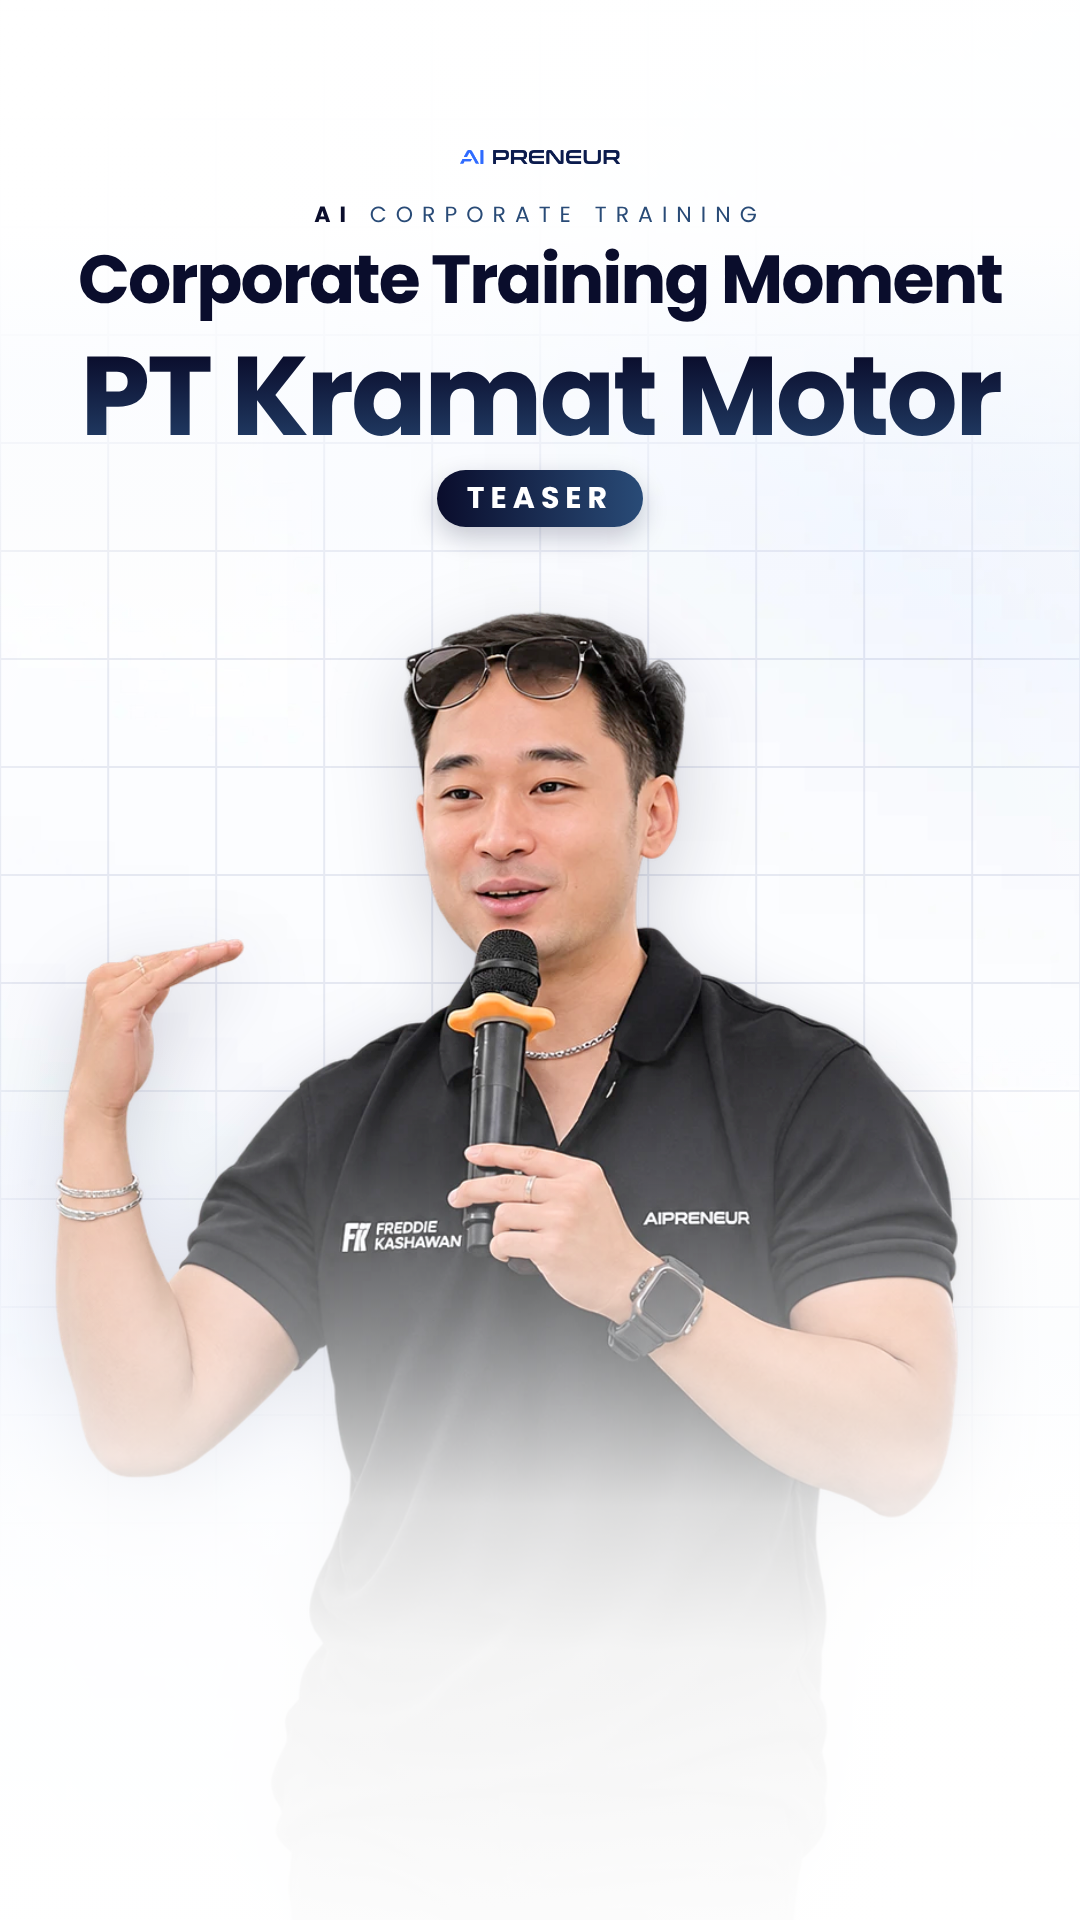
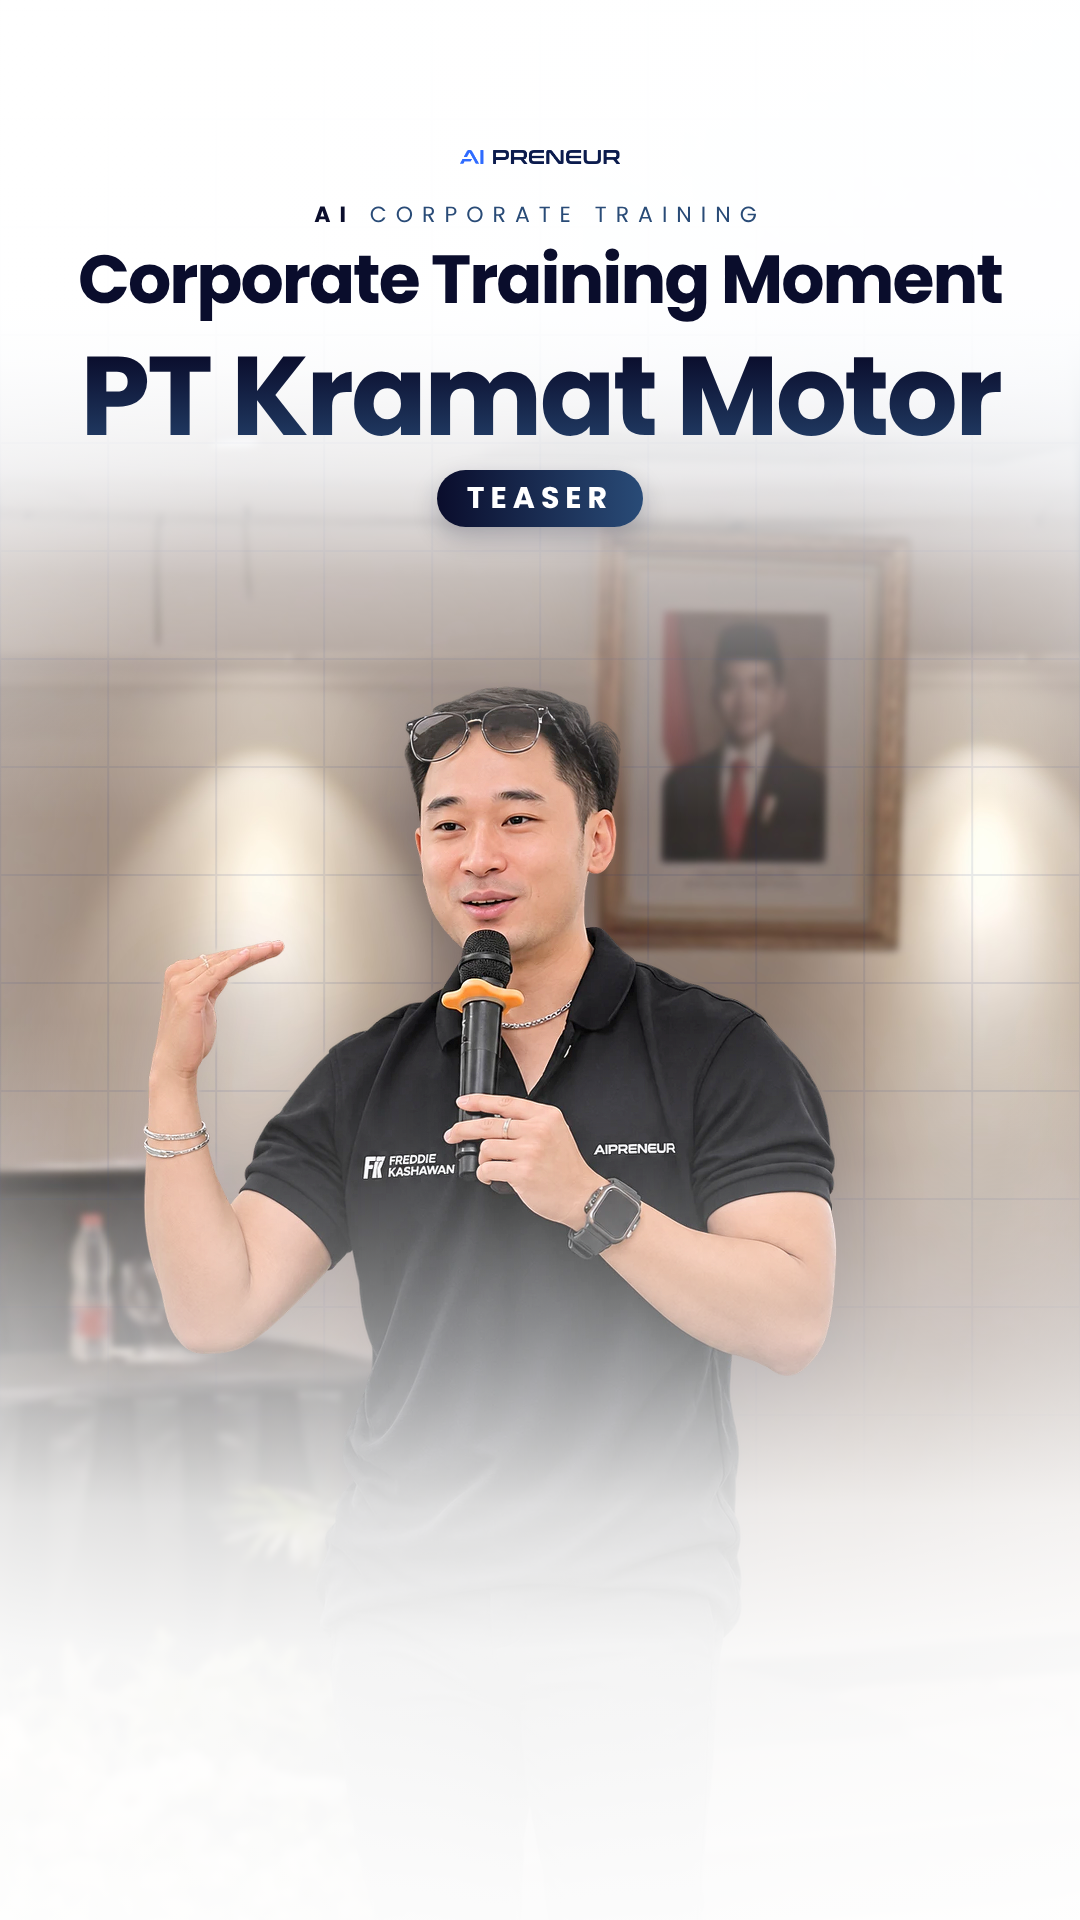
Cover Kramat Motor: room background (person inpainted) + client's cutout aligned in place
Claude-Session: https://claude.ai/code/session_01FYKeHQKRYJvqWR6SYDVSQw

diff --git a/projects/cover_kramat_motor/thumbnail/cover.html b/projects/cover_kramat_motor/thumbnail/cover.html
@@ -15,13 +15,13 @@
   #c { position: relative; width: 1080px; height: 1920px; overflow: hidden; }
   #bg { position: absolute; left: 0; top: 0; width: 1080px; height: 1920px; }
   .layer { position: absolute; left: 0; width: 1080px; }
-  #top { top: 0; height: 640px; background: linear-gradient(180deg, rgba(255,255,255,.98) 0%, rgba(255,255,255,.95) 36%, rgba(250,252,255,.74) 58%, rgba(246,249,255,.28) 80%, rgba(246,249,255,0) 100%); }
+  #top { top: 0; height: 820px; background: linear-gradient(180deg, rgba(255,255,255,.98) 0%, rgba(255,255,255,.95) 36%, rgba(250,252,255,.74) 58%, rgba(246,249,255,.28) 80%, rgba(246,249,255,0) 100%); }
   #bot { bottom: 0; height: 900px; background: linear-gradient(0deg, rgba(255,255,255,.98) 0%, rgba(255,255,255,.95) 30%, rgba(255,255,255,.84) 46%, rgba(250,252,255,.5) 64%, rgba(246,249,255,.16) 84%, rgba(246,249,255,0) 100%); }
   #vig { top: 0; height: 1920px; background: radial-gradient(ellipse 780px 1180px at 50% 54%, rgba(255,255,255,0) 60%, rgba(255,255,255,.5) 100%); }
   #grid { top: 0; height: 1920px; opacity: .09;
     background-image: linear-gradient(90deg, rgba(20,44,120,1) 0 1.6px, transparent 1.6px), linear-gradient(0deg, rgba(20,44,120,1) 0 1.6px, transparent 1.6px);
     background-size: 108px 108px; background-position: -0.8px 12px;
-    -webkit-mask-image: url(../assets/gridmask2.png); mask-image: url(../assets/gridmask2.png); -webkit-mask-size: 1080px 1920px; mask-size: 1080px 1920px; }
+    -webkit-mask-image: url(../assets/gridmask3.png); mask-image: url(../assets/gridmask3.png); -webkit-mask-size: 1080px 1920px; mask-size: 1080px 1920px; }
   .ctr { position: absolute; left: 0; width: 1080px; text-align: center; white-space: nowrap; }
   .t { display: none; }
   body.text .t { display: block; }
@@ -32,7 +32,7 @@
   #h2 { top: 340px; font: 700 112px/1 Poppins; letter-spacing: -3px;
     background: linear-gradient(180deg, #0a0d2c 10%, #294b77 95%); -webkit-background-clip: text; background-clip: text; color: transparent;
     padding-bottom: .26em; }
-  #person { position: absolute; left: -98px; top: 600px; width: 1266px; height: auto; filter: drop-shadow(0 24px 40px rgba(10,13,44,.18)); }
+  #person { position: absolute; left: 0; top: 0; width: 1080px; height: 1920px; filter: drop-shadow(0 24px 40px rgba(10,13,44,.18)); }
   #chip { position: absolute; left: 0; width: 1080px; top: 470px; text-align: center; }
   #chip span { display: inline-block; padding: 13px 30px 14px; border-radius: 40px; background: linear-gradient(90deg, #0a0d2c, #294b77);
     font: 700 30px/1 Poppins; letter-spacing: 6px; color: #fff; box-shadow: 0 10px 26px rgba(10,13,44,.22); }
@@ -40,9 +40,9 @@
 </head>
 <body class="text">
 <div id="c">
-  <img id="bg" src="../assets/plate.jpg" alt="" />
+  <img id="bg" src="../assets/room.jpg" alt="" />
   <div class="layer" id="grid"></div>
-  <img id="person" src="../assets/person.png" alt="" />
+  <img id="person" src="../assets/person_c.png" alt="" />
   <div class="layer" id="vig"></div>
   <div class="layer" id="top"></div>
   <div class="layer" id="bot"></div>

diff --git a/projects/cover_kramat_motor/tools/build_bg2.py b/projects/cover_kramat_motor/tools/build_bg2.py
@@ -1,0 +1,51 @@
+"""Room background (person removed with LaMa) + the client's clean cutout placed exactly where he stood.
+Usage: python3 -I tools/build_bg2.py <lama_fp32.onnx> <u2net_human_seg.onnx>"""
+import sys, cv2, numpy as np, onnxruntime as ort
+from PIL import Image
+LAMA, U2 = sys.argv[1:3]
+ph = cv2.imread("source/photo.jpg"); H0, W0 = ph.shape[:2]
+cu = np.array(Image.open("source/cutout.webp").convert("RGBA")).astype(np.float32) / 255
+M = np.load("source/cut2photo.npy")                                   # cutout -> photo (SIFT)
+# person mask in the photo: u2net matte + the aligned cutout, generously dilated
+s = ort.InferenceSession(U2, providers=["CPUExecutionProvider"])
+x = cv2.resize(cv2.cvtColor(ph, cv2.COLOR_BGR2RGB), (320, 320), interpolation=cv2.INTER_AREA).astype(np.float32) / 255
+x = (x / x.max() - np.array([0.485, 0.456, 0.406])) / np.array([0.229, 0.224, 0.225])
+m = s.run(None, {s.get_inputs()[0].name: x.transpose(2, 0, 1)[None].astype(np.float32)})[0][0, 0]
+m = cv2.resize((m - m.min()) / (m.max() - m.min() + 1e-9), (W0, H0))
+n, l, st, _ = cv2.connectedComponentsWithStats((m > 0.3).astype(np.uint8)); m = (l == 1 + int(np.argmax(st[1:, 4]))).astype(np.uint8)
+ca = cv2.warpAffine(cu[..., 3], M.astype(np.float32), (W0, H0))
+mask = cv2.dilate(((m > 0) | (ca > 0.1)).astype(np.uint8) * 255, np.ones((31, 31), np.uint8))
+# LaMa on a square crop around the person, at 512
+ys, xs = np.nonzero(mask); cx, cy = (xs.min() + xs.max()) // 2, (ys.min() + ys.max()) // 2
+S = int(max(xs.max() - xs.min(), ys.max() - ys.min()) * 1.15); x0 = int(np.clip(cx - S // 2, 0, W0 - S)); y0 = int(np.clip(cy - S // 2, 0, H0 - S)) if S <= H0 else 0
+S = min(S, H0, W0)
+crop = ph[y0:y0 + S, x0:x0 + S]; mc = mask[y0:y0 + S, x0:x0 + S]
+c5 = cv2.resize(crop, (512, 512), interpolation=cv2.INTER_AREA); m5 = (cv2.resize(mc, (512, 512)) > 127).astype(np.float32)
+sess = ort.InferenceSession(LAMA, providers=["CPUExecutionProvider"])
+rgb = cv2.cvtColor(c5, cv2.COLOR_BGR2RGB).astype(np.float32) / 255 * (1 - m5[..., None])
+y = sess.run(None, {"image": rgb.transpose(2, 0, 1)[None], "mask": m5[None, None]})[0][0].transpose(1, 2, 0)
+y = cv2.resize(cv2.cvtColor(np.clip(y, 0, 255).astype(np.uint8), cv2.COLOR_RGB2BGR), (S, S), interpolation=cv2.INTER_CUBIC)
+a = cv2.GaussianBlur(mc, (0, 0), 4).astype(np.float32)[..., None] / 255
+room = ph.copy(); room[y0:y0 + S, x0:x0 + S] = (crop * (1 - a) + y * a).astype(np.uint8)
+cv2.imwrite("source/room_clean.jpg", room)
+# room look: brighter, a touch desaturated, soft depth blur
+r = room.astype(np.float32) / 255; g = r.mean(axis=2, keepdims=True); r = g + (r - g) * 0.8
+r = np.clip(np.power(r, 0.75) * 1.06, 0, 1) * 0.88 + 0.12
+r = cv2.GaussianBlur(r, (0, 0), 2.2)
+# canvas: same framing as before (photo head at y~690)
+CW, CH, SC, HX, HY, HEAD = 1080, 1920, 1.62, 985, 230, 690
+A = np.float32([[SC, 0, 540 - HX * SC], [0, SC, HEAD - HY * SC]])
+plate = cv2.resize(cv2.imread("assets/plate.jpg"), (CW, CH)).astype(np.float32) / 255
+img = cv2.warpAffine(r, A, (CW, CH), flags=cv2.INTER_LANCZOS4, borderValue=(1, 1, 1))
+cov = cv2.warpAffine(np.ones((H0, W0), np.float32), A, (CW, CH)); top = int(np.argmax(cov[:, 540] > 0.5))
+cov = (cov * np.clip((np.arange(CH)[:, None] - top) / 260, 0, 1))[..., None]; img = img * cov + plate * (1 - cov)   # feathered top edge
+cv2.imwrite("assets/room.jpg", np.clip(img * 255, 0, 255).astype(np.uint8), [cv2.IMWRITE_JPEG_QUALITY, 96])
+# person layer: cutout -> photo -> canvas, brightened
+A3 = np.vstack([A, [0, 0, 1]]) @ np.vstack([M, [0, 0, 1]])
+p = np.power(cu[..., :3], 0.85) * 1.04; p = np.clip(p + 0.22 * (p - cv2.GaussianBlur(p, (0, 0), 1.6)), 0, 1)
+P = cv2.warpAffine(np.dstack([p, cu[..., 3]]), A3[:2].astype(np.float32), (CW, CH), flags=cv2.INTER_LANCZOS4)
+Image.fromarray((np.clip(P, 0, 1) * 255).astype(np.uint8)).save("assets/person_c.png")
+amk = cv2.dilate(cv2.GaussianBlur(P[..., 3], (0, 0), 2.0), np.ones((7, 7), np.uint8))
+fade = np.clip((1650 - np.arange(CH)) / 500, 0, 1)[:, None]
+cv2.imwrite("assets/gridmask3.png", np.dstack([np.full((CH, CW, 3), 255, np.uint8), (np.clip((1 - amk) * fade, 0, 1) * 255).astype(np.uint8)]))
+print("crop", x0, y0, S, "person scale", round(float(np.sqrt(abs(np.linalg.det(A3[:2, :2])))), 3))
